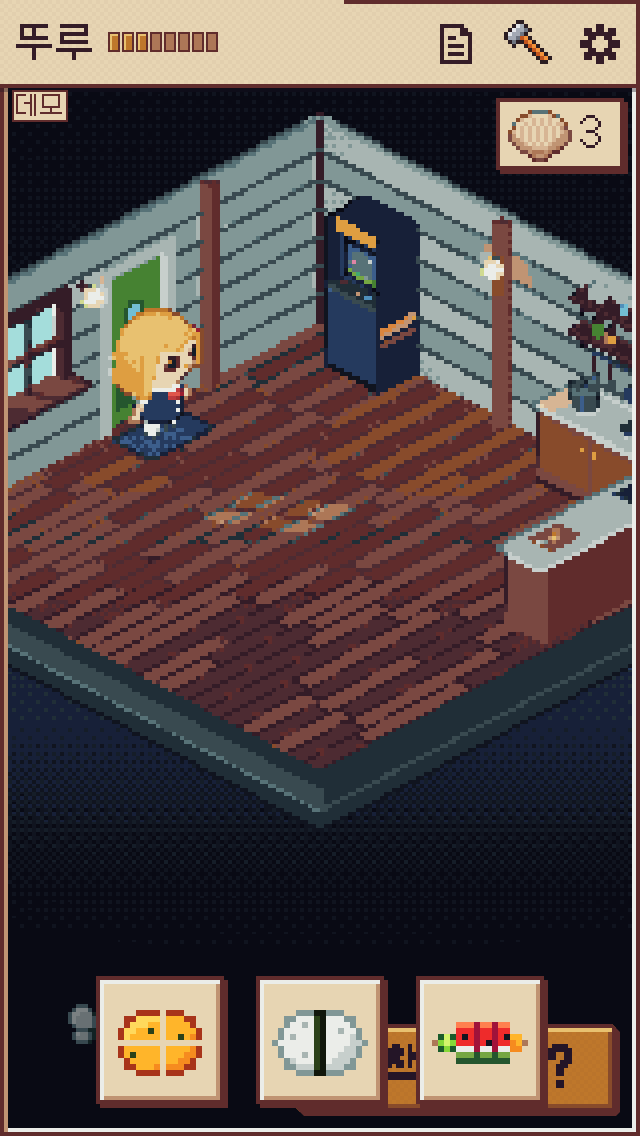
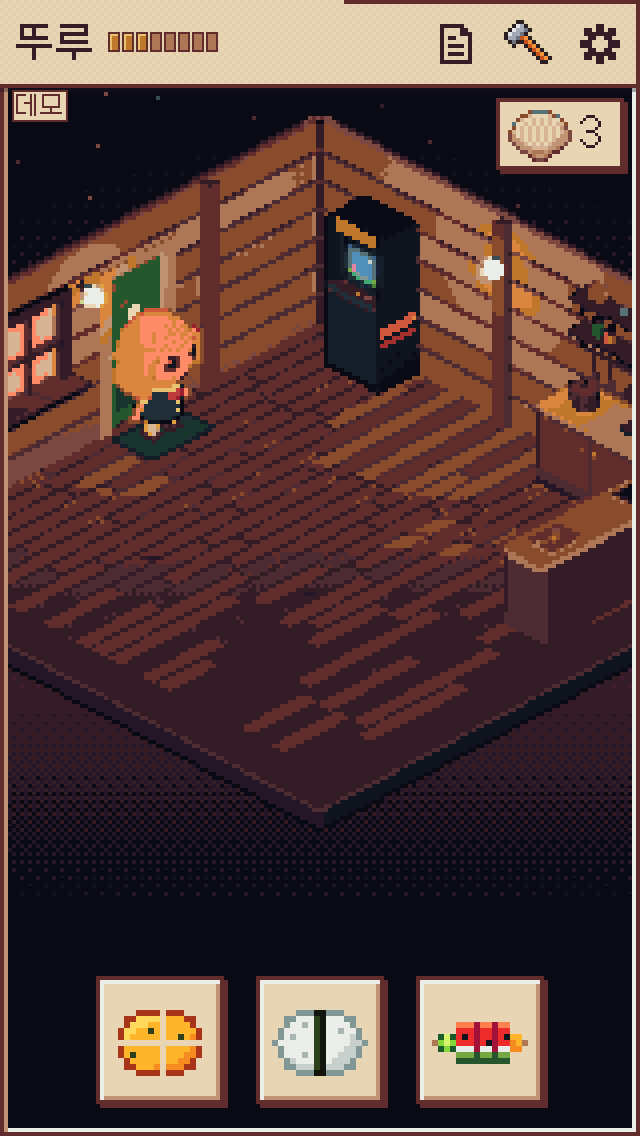
Tray: hide the main button and the stick while the dish tray is open
They showed pieces of '산책 갈래?' between the chips. A class on <html> hides both for as
long as the tray is open and every way of closing removes it. Smoke Z checks it; tray
shots refreshed; report updated.

Claude-Session: https://claude.ai/code/session_01Tq2y4QRGiUT1FoJafwUsRE

diff --git a/tools/smoke.js b/tools/smoke.js
@@ -7275,8 +7275,8 @@ async function scenarioSceneTap(browser) {
     k2.tray = await page.waitForSelector('#dish-pick[open]', { timeout: 5000 }).then(function () {
       return page.evaluate(function () {
         var d = document.getElementById('dish-pick'), dc = d.cloneNode(true), dpr = window.devicePixelRatio || 1;
-        var bd = getComputedStyle(d, '::backdrop');
-        return { label: d.getAttribute('aria-label'), text: (dc.textContent || '').trim(), backdrop: [bd.backgroundColor, bd.backgroundImage], titles: d.querySelectorAll('[title]').length + (d.hasAttribute('title') ? 1 : 0),
+        var bd = getComputedStyle(d, '::backdrop'), go = document.getElementById('btn-go'), gr = go.getBoundingClientRect();
+        return { label: d.getAttribute('aria-label'), text: (dc.textContent || '').trim(), backdrop: [bd.backgroundColor, bd.backgroundImage], go: getComputedStyle(go).visibility, goUnder: gr.bottom > window.innerHeight - 100, stick: getComputedStyle(document.getElementById('stick')).visibility, titles: d.querySelectorAll('[title]').length + (d.hasAttribute('title') ? 1 : 0),
           chips: Array.prototype.map.call(d.querySelectorAll('.dp-chip'), function (c) { var r = c.getBoundingClientRect(), im = c.querySelector('img'), ir = im.getBoundingClientRect();
             return { name: c.getAttribute('aria-label'), w: r.width, h: r.height, iw: ir.width * dpr, ix: ir.x * dpr, iy: ir.y * dpr, nat: im.naturalWidth, pix: getComputedStyle(im).imageRendering, bottom: window.innerHeight - r.bottom }; }) };
       });
@@ -7389,6 +7389,7 @@ async function scenarioSceneTap(browser) {
       var potE = await fr.evaluate(function () { return COOK.potOf(COOK.createRun('jeon', 9), 1); });
       await setPot(potE); k2.empty = await tapCounter();
       k2.emptyFocus = await shut().then(function () { return page.evaluate(function () { return document.activeElement && document.activeElement.id; }); });
+      k2.goEsc = await page.evaluate(function () { return getComputedStyle(document.getElementById('btn-go')).visibility; });
       var potOldTune = await fr.evaluate(function () { var b = [{ t: 400, k: 'b' }, { t: 800, k: 'b' }, { t: 1200, k: 'b' }, { t: 1600, k: 'b' }]; var p = COOK.potOf(COOK.simulate('jeon', 6, [b], { run: true }).run, 1); p.tune = 12345; return p; });
       await setPot(potOldTune); var otText = JSON.stringify(potOldTune);
       k2.oldTray = await tapCounter();
@@ -7396,7 +7397,8 @@ async function scenarioSceneTap(browser) {
       await page.tap('#dish-pick .dp-chip[data-recipe="jumeokbap"]');
       k2.oldPick = await fr.waitForFunction(function () { return COOK.isOpen() && COOK.live().recipe; }, null, { timeout: 5000 }).then(async function () {
         var st = JSON.parse(await cookStore());
-        return { r: await fr.evaluate(function () { return COOK.live().recipe; }), old0: st.potOld && JSON.stringify(st.potOld[0]), pot: st.pot };
+        return { r: await fr.evaluate(function () { return COOK.live().recipe; }), old0: st.potOld && JSON.stringify(st.potOld[0]), pot: st.pot,
+          picking: await page.evaluate(function () { return document.documentElement.classList.contains('dish-picking'); }) };
       }, function () { return null; });
       await fr.evaluate(function () { COOK.auto(true); });
       k2.result = await fr.waitForFunction(function () { return COOK.live().screen === 'reveal'; }, null, { timeout: 30000 }).then(async function () {
@@ -7430,7 +7432,7 @@ async function scenarioSceneTap(browser) {
       await page.waitForTimeout(500);
       k2.dbl = await page.evaluate(function () { return document.getElementById('dish-pick').open; });
       await page.touchscreen.tap(30, 300); await page.waitForTimeout(400);   /* 조리대 밖 (투명 배경) 톡 = 닫기 */
-      k2.backdrop = await page.evaluate(function () { return { open: document.getElementById('dish-pick').open, overlay: document.getElementById('cook-overlay').open }; });
+      k2.backdrop = await page.evaluate(function () { return { open: document.getElementById('dish-pick').open, overlay: document.getElementById('cook-overlay').open, go: getComputedStyle(document.getElementById('btn-go')).visibility }; });
       await shut();
     }
   }
@@ -7438,6 +7440,8 @@ async function scenarioSceneTap(browser) {
   var tr = k2.tray || {}, chips = tr.chips || [];
   ok(tr.label === '요리 고르기' && tr.text === '' && tr.titles === 0 && chips.map(function (c) { return c.name; }).join() === '해초전,주먹밥,과일 꼬치', "빈 저장에 조리대 톡 → 요리 쟁반 '요리 고르기' · 칩 해초전 · 주먹밥 · 과일 꼬치 · 보이는 글자 0 · title 0 (" + JSON.stringify(tr.text) + ')');
   ok(tr.backdrop && /rgba\(0, 0, 0, 0\)|transparent/.test(tr.backdrop[0]) && tr.backdrop[1] === 'none', '쟁반 배경은 투명 (픽셀 테마의 어두운 막 없음: ' + JSON.stringify(tr.backdrop) + ')');
+  ok(tr.go === 'hidden' && tr.stick === 'hidden' && tr.goUnder && k2.goEsc === 'visible' && k2.backdrop && k2.backdrop.go === 'visible' && k2.oldPick && k2.oldPick.picking === false && k2.closed && k2.closed.view === 'play',
+    "쟁반이 열린 동안 '산책 갈래?' 단추 · 발자국 손잡이는 안 보이고 (" + tr.go + ' · ' + tr.stick + '), Esc · 칩 밖 톡 · 고르기로 닫으면 그대로 돌아온다 (' + k2.goEsc + ' · ' + (k2.backdrop && k2.backdrop.go) + ' · ' + (k2.oldPick && k2.oldPick.picking) + ')');
   ok(k2.dbl === true, '조리대 두 번 톡 (120 ms) → 쟁반은 열린 채 (조리대 자리 톡은 닫지 않는다)');
   ok(k2.backdrop && !k2.backdrop.open && !k2.backdrop.overlay, '칩 밖 톡 → 쟁반만 닫힌다 (' + JSON.stringify(k2.backdrop) + ')');
   ok(chips.length === 3 && chips.every(function (c) { return c.w >= 44 && c.h >= 44 && c.nat === 16 && c.iw % 16 === 0 && Math.abs(c.ix - Math.round(c.ix)) < 0.01 && Math.abs(c.iy - Math.round(c.iy)) < 0.01 && c.pix === 'pixelated' && c.bottom >= 16; }), '칩 44px 이상 · 16×16 그림이 정수 배 · 기기 px 위 · 아래 여백 16 이상 (' + JSON.stringify(chips) + ')');

diff --git a/js/app.js b/js/app.js
@@ -4150,11 +4150,13 @@ var APP = (function () {
       d.addEventListener('cancel', function () { dishPickKbd = true; });   /* Esc · 뒤로 */
       d.addEventListener('close', function () {
         var op = dishPickOpener; window.removeEventListener('resize', dishPickFit);
+        document.documentElement.classList.remove('dish-picking');   /* 큰 단추 · 발자국 손잡이를 그대로 되돌린다 */
         if (!dishPicked && op && !op.hidden) focusRoomBtn(op, dishPickKbd);   /* 고르지 않고 닫으면 조리대 단추로 */
       });
     }
     dishPickOpener = opener; dishPickKbd = !!kbd; dishPicked = false;
     if (opener && document.activeElement !== opener && !opener.hidden) focusRoomBtn(opener, !!kbd);
+    document.documentElement.classList.add('dish-picking');   /* 쟁반이 열린 동안 '산책 갈래?' 단추와 발자국 손잡이는 숨긴다 (칩 사이로 글자 조각이 비쳤다 · 모달이라 어차피 못 누른다) */
     d.showModal();
     dishPickFit(); window.addEventListener('resize', dishPickFit);
     var first = d.querySelector('button[data-recipe]');

diff --git a/css/style.css b/css/style.css
@@ -1709,5 +1709,6 @@ dialog.dish-pick .dp-chip:nth-child(1) { left: 0; }
 dialog.dish-pick .dp-chip:nth-child(2) { left: calc(var(--dp-chip, 64px) + var(--dp-gap, 16px)); }
 dialog.dish-pick .dp-chip:nth-child(3) { left: calc(2 * var(--dp-chip, 64px) + 2 * var(--dp-gap, 16px)); }
 dialog.dish-pick .dp-chip img { position: absolute; left: var(--dp-icp, 8px); top: var(--dp-icp, 8px); width: var(--dp-ic, 48px); height: var(--dp-ic, 48px); image-rendering: pixelated; }
+html.dish-picking #btn-go, html.dish-picking #stick { visibility: hidden !important; }   /* 리드 11-18: 쟁반이 열린 동안 아래 막대의 큰 단추 · 손잡이가 칩 사이로 비치지 않게 (닫으면 클래스만 빠진다 → 그대로) */
 dialog.dish-pick .dp-chip:focus { outline: none; }
 dialog.dish-pick .dp-chip:focus-visible, .cook-wait .cw-close:focus-visible { outline: var(--dp-b, 2px) solid #341c27; outline-offset: var(--dp-b, 2px); }

diff --git a/wip/round6/reports/K2.md b/wip/round6/reports/K2.md
@@ -191,9 +191,17 @@ Everything in the K2 brief is built and checked. That covers both new dishes, th
 
 ## Left as is, and why
 
-- **The tray covers the '산책 갈래?' main button.** At 360 and 412 width the bottom-centred tray overlaps it, and pieces of its text show beside the chips. This is the placement §3.5 asks for, so I kept it. Flagged for the owner/lead.
 - **Kitchen still open behind a closed overlay.** If the overlay ever closes while the frame's kitchen stays open (a lost `close` message), `COOK.open` returns early on the next `open` and keeps the old dish. I saw this only under heavy CPU load in smoke runs while another browser suite ran at the same time; it never reproduced alone (4 targeted repros). Smoke now checks that the kitchen is closed before each tray-rule step. Not changed in code.
 - **One flaky pre-existing Z check.** Z's '관성으로 흐르는 중에 재봉틀을 톡' (scene coasting, not my code) failed in two of six Z runs under load and passed in the others.
+
+## Follow-up from the lead (11-18): the main button under the tray
+
+While the tray is open, the '산책 갈래?' main button (`#btn-go`) and the footprint stick (`#stick`) are hidden: `dishPickOpen` adds `html.dish-picking`, `css/style.css` sets `visibility: hidden !important` on both, and the tray's `close` event (every way of closing: pick, Esc / back, a tap outside) removes the class, so both come back exactly as they were (no inline style touched, focus rules unchanged — focus returns to `#btn-cook`). The tray is modal, so they could not be pressed anyway. Chip size, place, zero characters and no `title` are unchanged.
+
+- Checked at 360×740@2, 412×915@2.625 and 320×568@2: open (hidden) → Esc (visible, focus `#btn-cook`) → tap outside (visible) → double tap on the counter (tray open, hidden) → pick 과일 꼬치 (visible behind the kitchen) → close the kitchen (visible, focus `#btn-cook`).
+- Smoke Z: a new check — hidden while the tray is open, visible again after Esc, after a tap outside, and after a pick.
+- The three tray shots are refreshed (no text pieces between the chips).
+- Reran: `npm test` passes; smoke Z's scene-tap scenario (the kitchen part) 39 ok, 0 FAIL.
 
 ## Not verified
 
